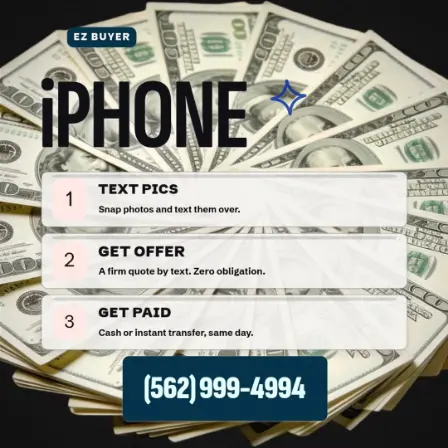
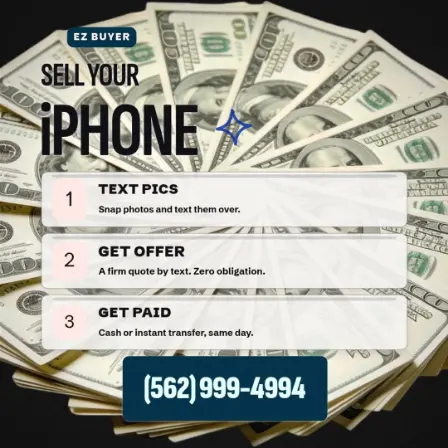
du01-20: SELL YOUR over iPHONE, the hero moved down to make room
The owner, of the grown one-word headline: "I would think we need to scoot
this hero down a little bit and create some room for the words... this just
feels incomplete still iPhone.. or maybe we can change it to sell your
iphone?" A lead line, SELL YOUR (the family's own first words), now sits where
iPHONE was, and iPHONE below it as the hero, the pair sized as one to fill the
band between the kicker pill and the first step (38px off each), the lines
38px apart. The sparkle stays beside iPHONE. Gate clean, the steps keep one
rhythm, the composition audit passes, 62k px² of headline letters. WE BUY was
drawn too and left: beside EZ BUYER it says buy twice. DESIGN-LAW 111.

Claude-Session: https://claude.ai/code/session_01EpFq2bw26Tbex1evivoTJF

Changed region(s): [[0.0938, 0.125, 0.5625, 0.375], [0.5938, 0.1562, 0.6875, 0.25]]

diff --git a/DESIGN-LAW.md b/DESIGN-LAW.md
@@ -3882,6 +3882,16 @@ What the owner compares is how much of the card the headline's letters cover:
   off the site already; and on the site reviewProof-pp03-35, -io03-15,
   -pp02-15 (×1.54), -pp02-20 (×1.28), ticketStub-ck03-15 and -du02-30 (×1.32).
   Three of the Steps cards had failed the gate's thumbnail test; none does now.
+- **A hero names what it wants.** The owner, of du01-20's grown "iPHONE":
+  "I would think we need to scoot this hero down a little bit and create some
+  room for the words... this just feels incomplete still iPhone.. or maybe we
+  can change it to sell your iphone?" One word is an object, not an ad. It is
+  now SELL YOUR (the lead, 0.44 of the hero, the family's own first words:
+  SELL YOUR TEST STRIPS, SELL YOUR iPAD) over iPHONE, the pair filling the band
+  between the kicker pill and the first step, 38px off each; the lead's letters
+  on the band's top, the hero's box 16% into the lead's (the collision pass
+  calls under 18% a kiss, so the lines sit 38px apart, not 57). WE BUY was
+  drawn too and left: beside EZ BUYER it says buy twice.
 - **Four live Glass Cards stay under the floor** (25k to 29k): their headline
   shares the glass panel with the product, and a bigger headline pushes the
   product out of the panel (the layout then leaves it off). That is a layout

diff --git a/OPEN-ITEMS.md b/OPEN-ITEMS.md
@@ -1571,6 +1571,10 @@ many times do I have to tell you this is not a hero. It's tiny little text
 that looks extremely out of place compared to every other graphic
 seriously????"
 
+Then, of du01-20's grown one-word headline: "create some room for the words...
+this just feels incomplete still iPhone.. or maybe we can change it to sell
+your iphone?": it is now SELL YOUR over iPHONE (rule 111), gated, re-thumbed.
+
 Done: `scripts/hero_headline.mjs` (measures the letters every headline covers,
 grows the ones under 30,000 px² as one block, gated); ten records grown (the
 four Steps cards off the site, six live reviewProof and ticketStub cards);
